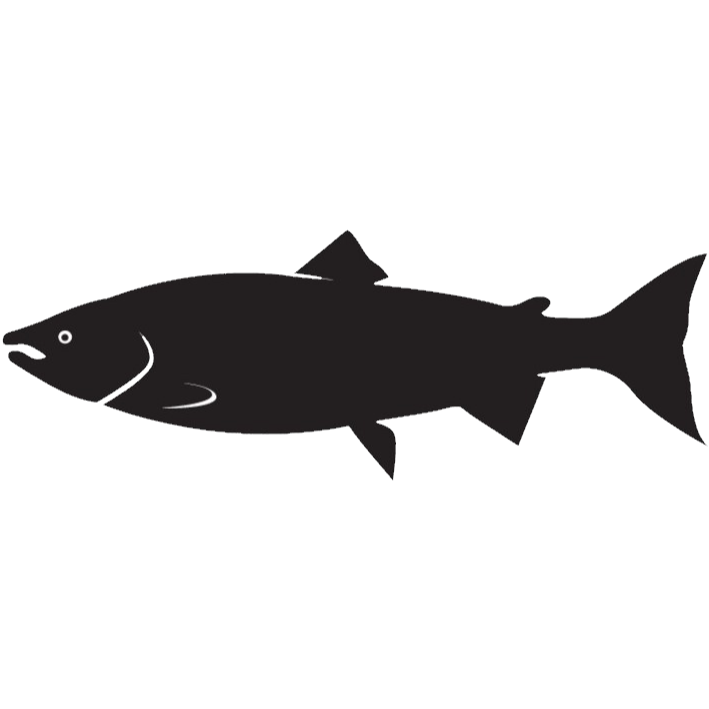
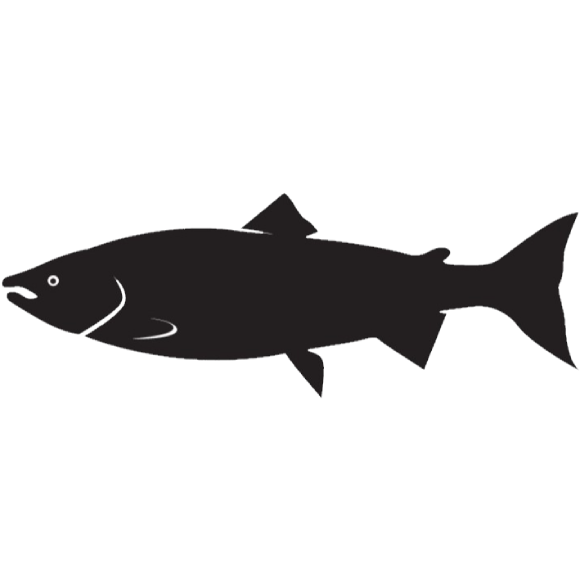
canvi de les imatges dels peixos

diff --git a/js/sketch.js b/js/sketch.js
@@ -38,6 +38,8 @@ let backgroundMinijocImg;
 let canyaImg;
 let baixellMiniImg;
 
+let pescat;
+
 function preload(){
   peixosImg[0] = loadImage("img/fish/whiteSmallFish.png");
   peixosImg[1] = loadImage("img/fish/whiteMediumFish.png");
@@ -61,6 +63,7 @@ function setup() {
   textFont('Courier New');
   textAlign(CENTER, CENTER);
   imageMode(CENTER);
+  angleMode(DEGREES);
   millisInicial = millis();
   timerGame = millis();
   gameTime = 120000;
@@ -130,7 +133,6 @@ function draw() {
     } else {
       stat = 2;
       fishScore = 1000;
-      peixos.splice(indexPeix,1);
       currentLetter = randomLetter();
       nPeixos--;
       if(nPeixos == 0){
@@ -144,7 +146,6 @@ function draw() {
     } 
   }
   else if(stat == 2){
-    background(getBackgroundColor(currentLetter));
     backgroundMinijocImg.resize(0,height);
     baixellMiniImg.resize(width * 0.8,0);
     canyaImg.resize(width * 0.15,0);
@@ -152,14 +153,24 @@ function draw() {
     image(backgroundMinijocImg,width/2,height/2);
     image(canyaImg,width * 0.45,height*0.13);
     image(baixellMiniImg,width * 0.25,height*0.25);
-    
     fill(255);
     strokeWeight(0);
-    text("Press: " + currentLetter, width / 2, height / 2);
-    text("Timer: " + fishScore, width / 2, height / 2 + 40);
+    //text("Press: " + currentLetter, width / 2, height / 2);
+    //text("Timer: " + fishScore, width / 2, height / 2 + 40);
     strokeWeight(2);
-    let finishLine = map(fishScore,1000,0,height*0.8,height*0.1);
+    let finishLine = map(fishScore,1000,0,height*0.6,height*0.1);
     line(width * 0.52,height*0.061,width*0.52,finishLine);
+    push();
+    //let drawSize = map(peixos[indexPeix].fishLenght,10,100,100,300);
+    let drawSize = map(peixos[indexPeix].fishLenght,10,100,100,300);
+    translate((width * 0.52), finishLine + (drawSize * 0.4));
+    fill(0,0);
+    strokeWeight(20);
+    stroke(getBackgroundColor(currentLetter));
+    circle(0,0,drawSize);
+    rotate(90);
+    image(peixos[indexPeix].img,0,0,drawSize,drawSize);
+    pop();
     fishScore++;
     if(fishScore >= 1000){
       fishScore = 1000;
@@ -171,7 +182,7 @@ function draw() {
     text(felicitacio, width / 2, height / 5);
     textSize(20);
     text(round(map(peix.fishLenght,300,700, 10, 50),2)+"cm", width / 2, height * map(peix.fishLenght,300,700,0.6,0.5));
-    image(peix.image, width/2, height * 0.7);
+    image(peix.img, width/2, height * 0.7);
     countdownDuration = 7500;
     if(timeGameLeft == 0){
       stat = 0;
@@ -305,7 +316,8 @@ function keyPressed(){
       currentLetter = randomLetter();
       fishScore -= 100;
       if(fishScore <= 0){
-        stat = 3;
+        peixos.splice(indexPeix,1);
+        stat = 0;
         directX = 0;
         directY = 0;
       }
@@ -353,7 +365,7 @@ function randomLetter() {
 }
 
 function getBackgroundColor(letter) {
-  if (letter === 'J') return color(0, 0, 255); // Blau
-  if (letter === 'K') return color(255, 0, 0); // Vermell
-  if (letter === 'L') return color(0, 255, 0); // Verd
+  if (letter === 'J') return color(0, 0, 255,204); // Blau
+  if (letter === 'K') return color(255, 0, 0,204); // Vermell
+  if (letter === 'L') return color(0, 255, 0,204); // Verd
 }

diff --git a/js/peix.js b/js/peix.js
@@ -1,16 +1,17 @@
 class Peix{
-    
+
   constructor(x,y,t,img){
     this.x = x;
     this.y = y;
     this.t = t;
     this.llum = 1.5;
-    this.fishLenght;
+    this.fishLenght = Math.floor(random(10,101));
     this.img = img[floor(random(3))];
   }
   
   dibuixar(){
     tint(255,255*this.llum);
+    this.img.resize(width,0);
     image(this.img,((this.x*rectSize) + borderSize) + rectSize/2, ((this.y*rectSize) + borderSize) + rectSize/2,this.t,this.t);
     this.llum = this.llum-0.01
   }
@@ -27,14 +28,4 @@ class Peix{
       return false;
     }
   }  
-  
-  setMidaPeix(rMin, rMax){ // les variables es la resolució min i max
-    this.fishLenght =  random(rMin, rMax);
-  }
-  retornaMida(){ //pasa de resolució a cm
-    return round(map(fishLenght,300,700, 10, 50),2);
-  }
-  resizePeix(){
-    resize(this.fishLenght,0);
-  }
 }
